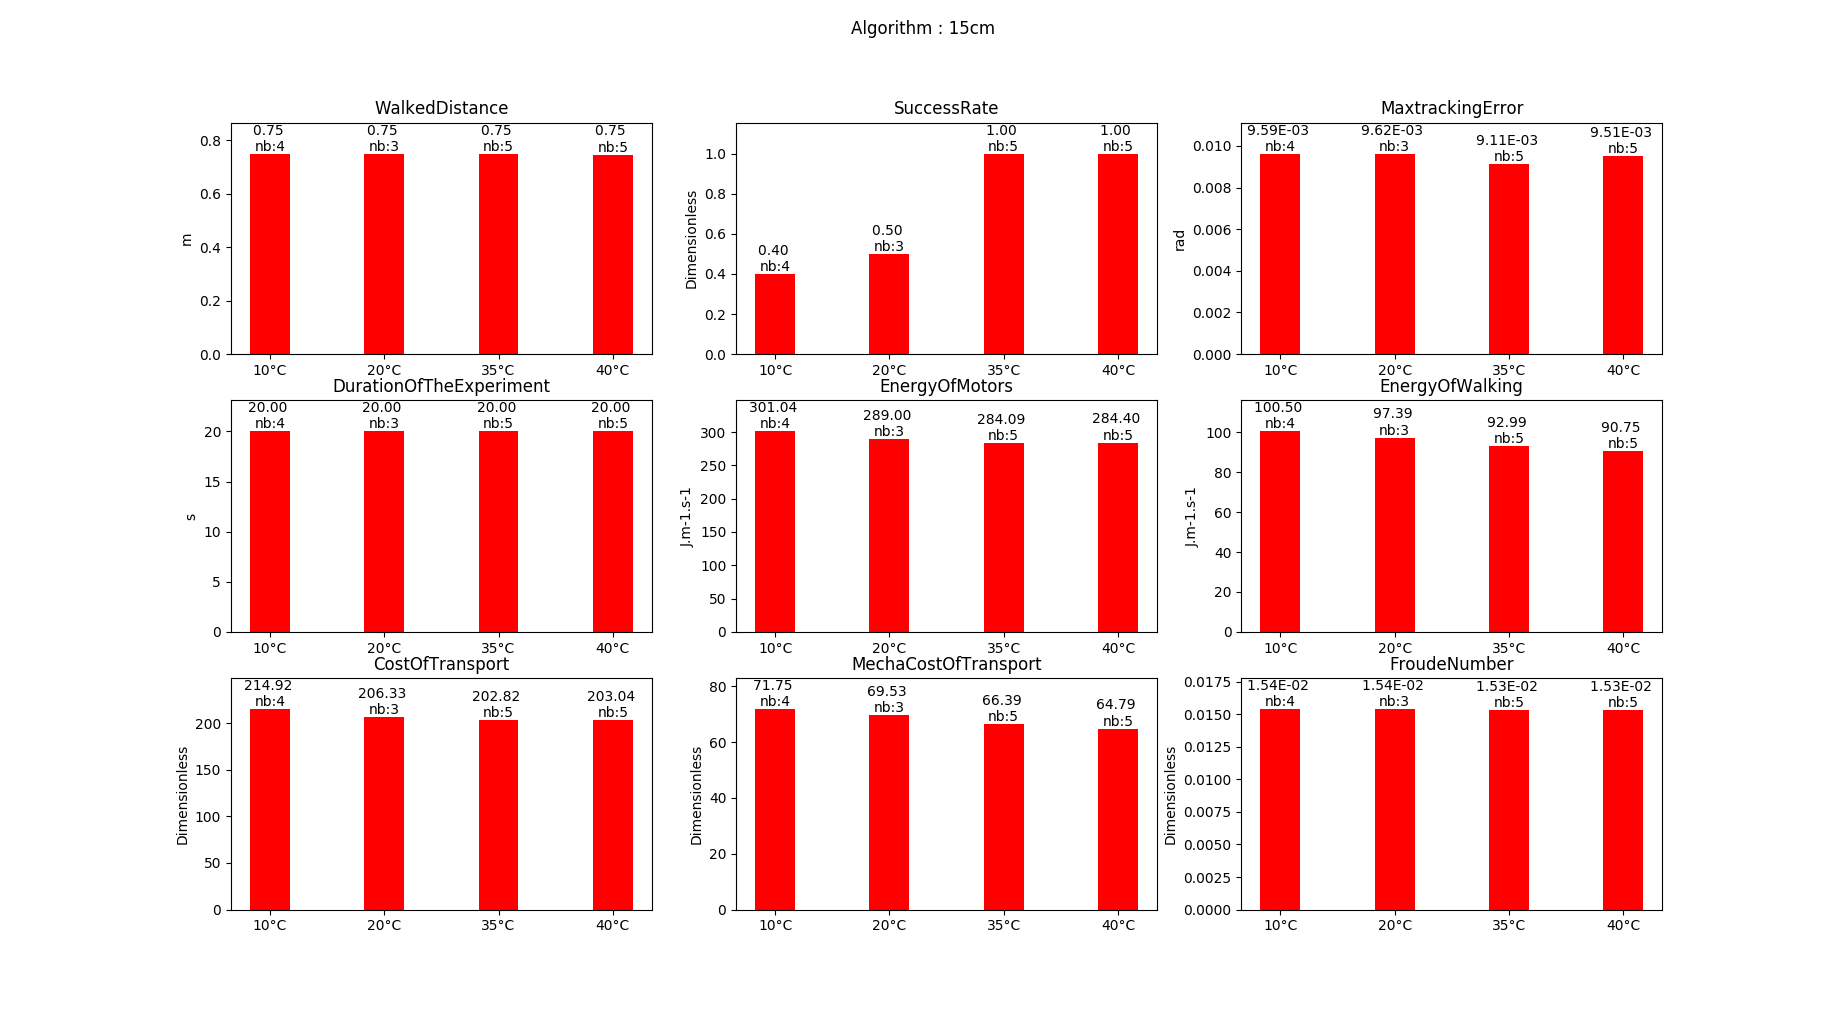
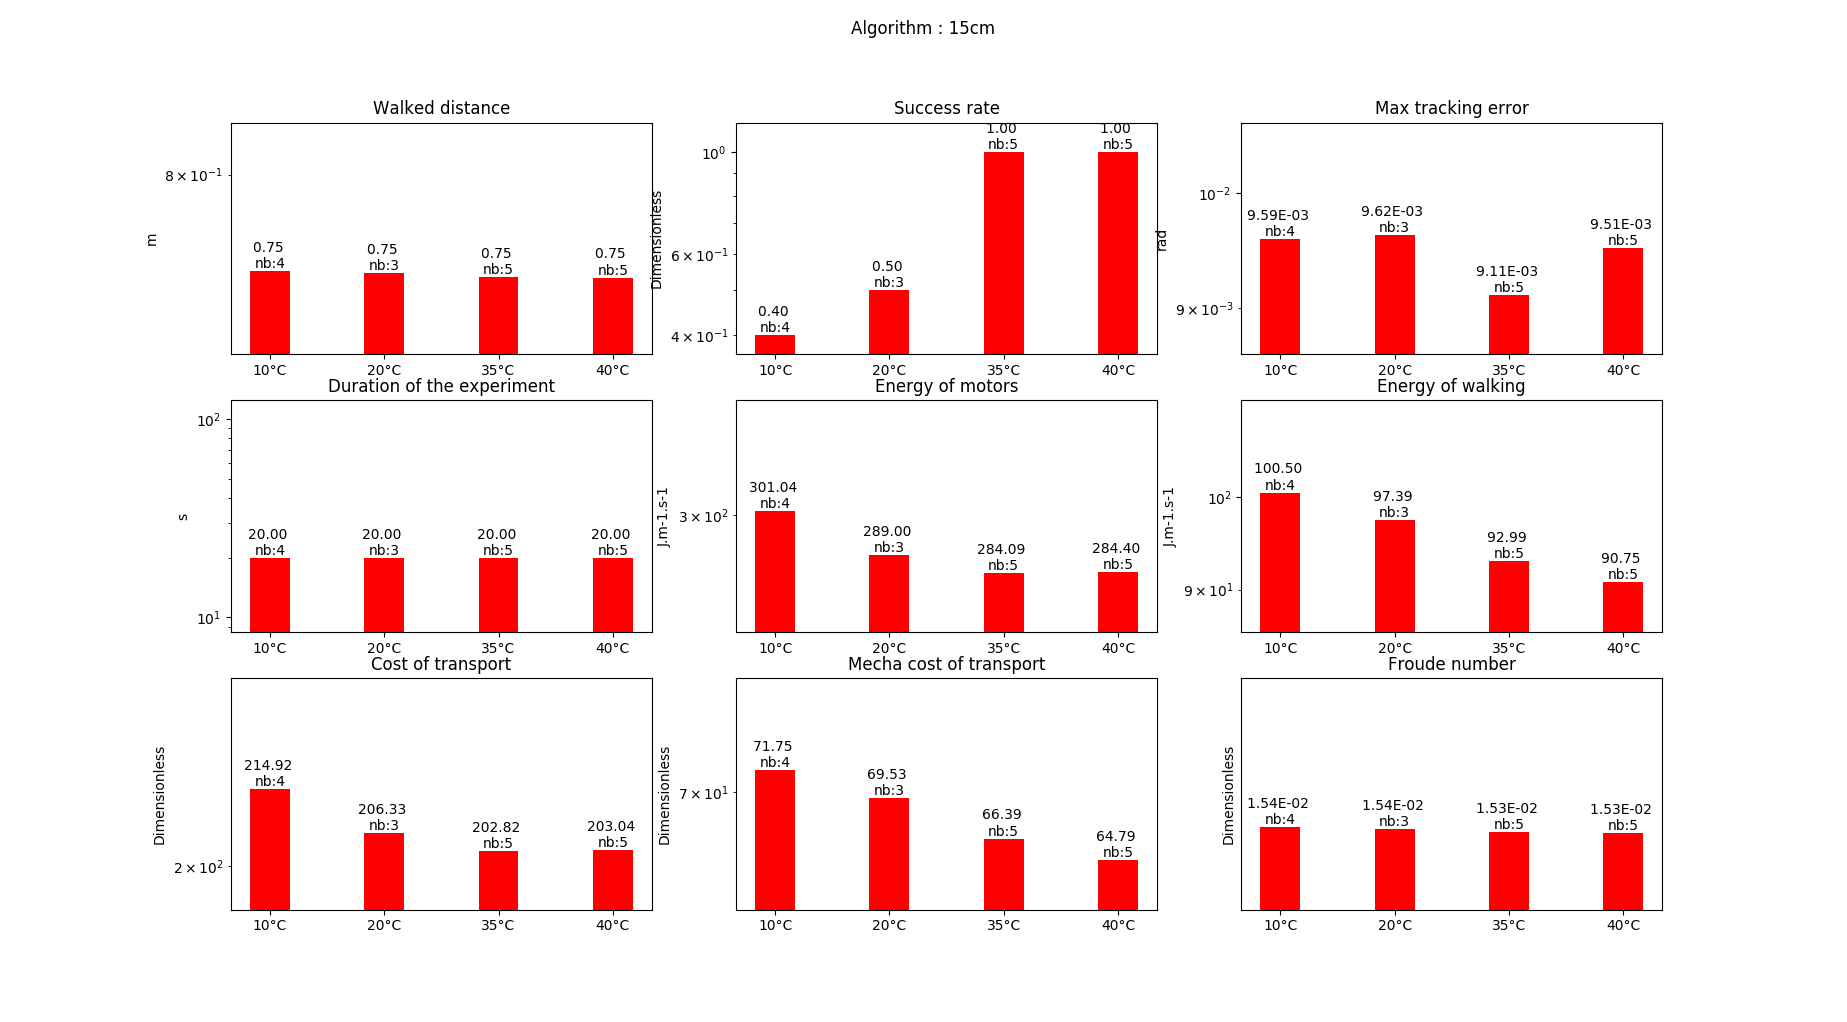
make new graphs, more readable

diff --git a/src/make_plot.py b/src/make_plot.py
@@ -24,12 +24,13 @@ class XP :
         self.setup = ""
         self.algo_dico = {"10cm":1,"15cm":2,"hwalk":3,"PG":4,"Beam":5,"kawada":6}
         self.setup_dico = {'degrees':1,'Bearing':2,'Pushes':3,'Slopes':4,'Translations\nFB':5,'Translations\nSIDE':6}
-        self.kpi_list = ["WalkedDistance","SuccessRate","MaxtrackingError",
-                         "DurationOfTheExperiment","EnergyOfMotors","EnergyOfWalking",
-                         "CostOfTransport","MechaCostOfTransport","FroudeNumber"]
+        self.kpi_list = ["Walked distance","Success rate","Max tracking error",
+                         "Duration of the experiment","Energy of motors","Energy of walking",
+                         "Cost of transport","Mecha cost of transport","Froude number"]
         self.dimension_list = ["m","Dimensionless","rad","s","J.m-1.s-1","J.m-1.s-1","Dimensionless",
                                "Dimensionless","Dimensionless"]
         self.success_rate = 0.0
+        #self.direction = ""
         self.headers = []
 
     def __str__(self):
@@ -78,6 +79,8 @@ def discrimin_xp(header_file,header_line,list_lines_split):
     xp_list = []
     previous_algo = ""
     previous_setup = 0
+    # previous_direction = ""
+    # current_direction = ""
 
     for i in range(len(list_lines_split)) :
 
@@ -108,14 +111,22 @@ def discrimin_xp(header_file,header_line,list_lines_split):
         elif header_line[i].find("Slopes") != -1:
             current_setup = "Slopes"
         elif header_line[i].find("translation") != -1 and header_line[i].find("FB") != -1:
-            current_setup = "Translations\nFB"
+            current_setup = "Translations_FB"
         elif header_line[i].find("translation") != -1 and header_line[i].find("SIDE") != -1:
-            current_setup = "Translations\nSIDE"
+            current_setup = "Translations_SIDE"
+            # if header_line[i].find("FB") != -1:
+            #     current_direction="FB"
+            # elif header_line[i].find("SIDE") != -1:
+            #     current_direction="SIDE"
+            # else:
+            #     current_direction=""
+        # elif header_line[i].find("translation") != -1 and header_line[i].find("SIDE") != -1:
+        #    current_setup = "Translations"
         else :
             current_setup = "nothing"
 
-        if previous_algo != current_algo or previous_setup!=current_setup :
-            print "new xp detected, algo : ", current_algo, " setup : ",current_setup
+        if previous_algo != current_algo or previous_setup!=current_setup : #or previous_direction!=current_direction:
+            print "new xp detected, algo : ", current_algo, " setup : ",current_setup#, " ", current_direction
             xp = XP()
             xp.algo = current_algo
             xp_list.append(xp)
@@ -132,9 +143,11 @@ def discrimin_xp(header_file,header_line,list_lines_split):
         xp_list[-1].headers.append(header_line[i])
 
         xp_list[-1].setup = current_setup
+        #xp_list[-1].direction=current_direction
         print  xp_list[-1].algo," ", xp_list[-1].setup
         previous_algo = current_algo
         previous_setup = current_setup
+        #previous_direction=current_direction
         print "xp_list[",i,"] : ", len(xp_list)
         #for xp in xp_list:
         #    print "xp ::: ", xp.algo, " ", xp.setup
@@ -191,6 +204,11 @@ def mean_xp(xp_list) :
     return list_mean_xp
 
 def rm_absurd_values(xp):
+
+    #remove pushes
+    if xp.setup == "Pushes":
+        print "+ experiment ", xp.algo, " ", xp.setup, " removed"
+        return True
 
     absurd_index_list = []
     # remove trials with null walked distance
@@ -316,35 +334,54 @@ def plot_graph(list_mean_xp,xp_list) :
         if key=="kawada":
             fig_list=plt.get_fignums()
             plt.close(fig_list[-1])
-            fig, ax = plt.subplots(1, 3)
+            #close_figures() #################################   to be removed
             print "enter in plotting kawada"
-            for k in range(3):
-
+            #setup_list = [xp[-2] for xp in list_mean_xp if xp_list[list_mean_xp.index(xp)].algo == key]
+            setup_list = [xp.setup for xp in xp_list if xp.algo == key]
+            # for setup in setup_list:
+            #     if setup_list.count(setup)>1:
+            #         setup_list.remove(setup)
+            tmp_kpi_list=["Intensity", "Max tracking error","Duration of the experiment"]
+            fig, ax = plt.subplots(1, len(tmp_kpi_list))
+            plt.suptitle("Algorithm : " + key)
+            for k,kpi in enumerate(tmp_kpi_list):
+                    print "KPI : ", kpi
                 #for setup_k in ["Translations_FB","Translations_SIDE"]:
                     print "setup kawada (direction) : "#, setup_k
-                    y_list=[xp[k] for xp in list_mean_xp if xp_list[list_mean_xp.index(xp)].algo==key] # get mean values for algo
-                    setup_list=[xp[-2] for xp in list_mean_xp if xp_list[list_mean_xp.index(xp)].algo==key ]#\
+                    #y_list=[xp[k+1] for xp in list_mean_xp if xp_list[list_mean_xp.index(xp)].algo==key] # get mean values for algo
+                    #setup_list=[xp[-2] for xp in list_mean_xp if xp_list[list_mean_xp.index(xp)].algo==key ]#\
                                     #and xp_list[list_mean_xp.index(xp)].setup == setup_k)]  #get setup found for algo
-                    nb_of_xp_list=[xp[-1] for xp in list_mean_xp if xp_list[list_mean_xp.index(xp)].algo == key]  # get setup found for algo
+                    #direction_list = [xp.direction for xp in xp_list if xp.algo == key]
+                    y_list=[]
+                    for idx,xp in enumerate(xp_list):
+                        if xp.algo==key:
+                            if kpi=="Intensity":
+                                print "intensity : TODO"
+                            else:
+                                y_list.append(list_mean_xp[idx][xp.kpi_list.index(kpi)])
+                    # direction_list=[]
+                    # for xp in xp_list:
+                    #     if xp.algo==key:
+                    #         if xp.direction=="":
+                    #             direction_list.append(xp.setup)
+                    #         else:
+                    #             direction_list.append(xp.setup+"\n"+xp.direction)
                     print "setup_list", setup_list
                     print "y_list", y_list
-                    print "nb_of_xp_list",nb_of_xp_list
-                    # plt.plot(y_list)
-                    # plt.show()
+
                     y_tuple = tuple(y_list)
                     setup_tuple = tuple(setup_list)
                     N = len(y_tuple)
 
                     ind = np.arange(N)  # the x locations for the groups
                     width = 0.35  # the width of the bars
-
                     # fig, ax = plt.subplots()
                     # ax[0, 0].plot(x, y)
                     rects1 = ax[k].bar(ind, y_tuple, width, color='r')
 
                     # add some text for labels, title and axes ticks
                     ax[k].set_ylabel(xp_tmp.dimension_list[k])
-                    ax[k].set_title(xp_tmp.kpi_list[k])
+                    ax[k].set_title(kpi)
                     ax[k].set_xticks(ind)
                     print "setup_tuple : ", setup_tuple
                     ax[k].set_xticklabels(setup_tuple)
@@ -368,10 +405,11 @@ def plot_graph(list_mean_xp,xp_list) :
             jk=0 #place of subplot
             for j in range(3): #1st loop place subplot
                 for k in range(3): #2nd loop subplot
+                    print key," ",xp_tmp.kpi_list[jk]
                     y_list=[xp[jk] for xp in list_mean_xp if xp_list[list_mean_xp.index(xp)].algo==key] # get mean values for algo
                     setup_list=[xp[-2] for xp in list_mean_xp if xp_list[list_mean_xp.index(xp)].algo==key]#get setup found for algo
                     nb_of_xp_list=[xp[-1] for xp in list_mean_xp if xp_list[list_mean_xp.index(xp)].algo == key]  # get number of trials for xp
-                    print "y_list",y_list
+                    #print "y_list",y_list
                     #plt.plot(y_list)
                     #plt.show()
                     y_tuple = tuple(y_list)
@@ -389,9 +427,12 @@ def plot_graph(list_mean_xp,xp_list) :
                     ax[j, k].set_ylabel(xp_tmp.dimension_list[jk])
                     ax[j, k].set_title(xp_tmp.kpi_list[jk])
                     ax[j, k].set_xticks(ind)
-                    print "setup_tuple : ",setup_tuple
+                    #print "setup_tuple : ",setup_tuple
                     ax[j, k].set_xticklabels(setup_tuple)
-                    ax[j, k].set_ylim((ax[j, k].get_ylim()[0],ax[j, k].get_ylim()[1]*1.1))
+                    ax[j, k].set_yscale('log')
+                    ax[j, k].set_ylim((ax[j, k].get_ylim()[0]*0.95, ax[j, k].get_ylim()[1] * 1.105))
+                    print "lim inf : ",ax[j, k].get_ylim()[0]," lim up : ",ax[j, k].get_ylim()[1]
+
                     nb_points = len(y_list)
 
                     autolabel(rects1,ax,j,k,nb_of_xp_list)
